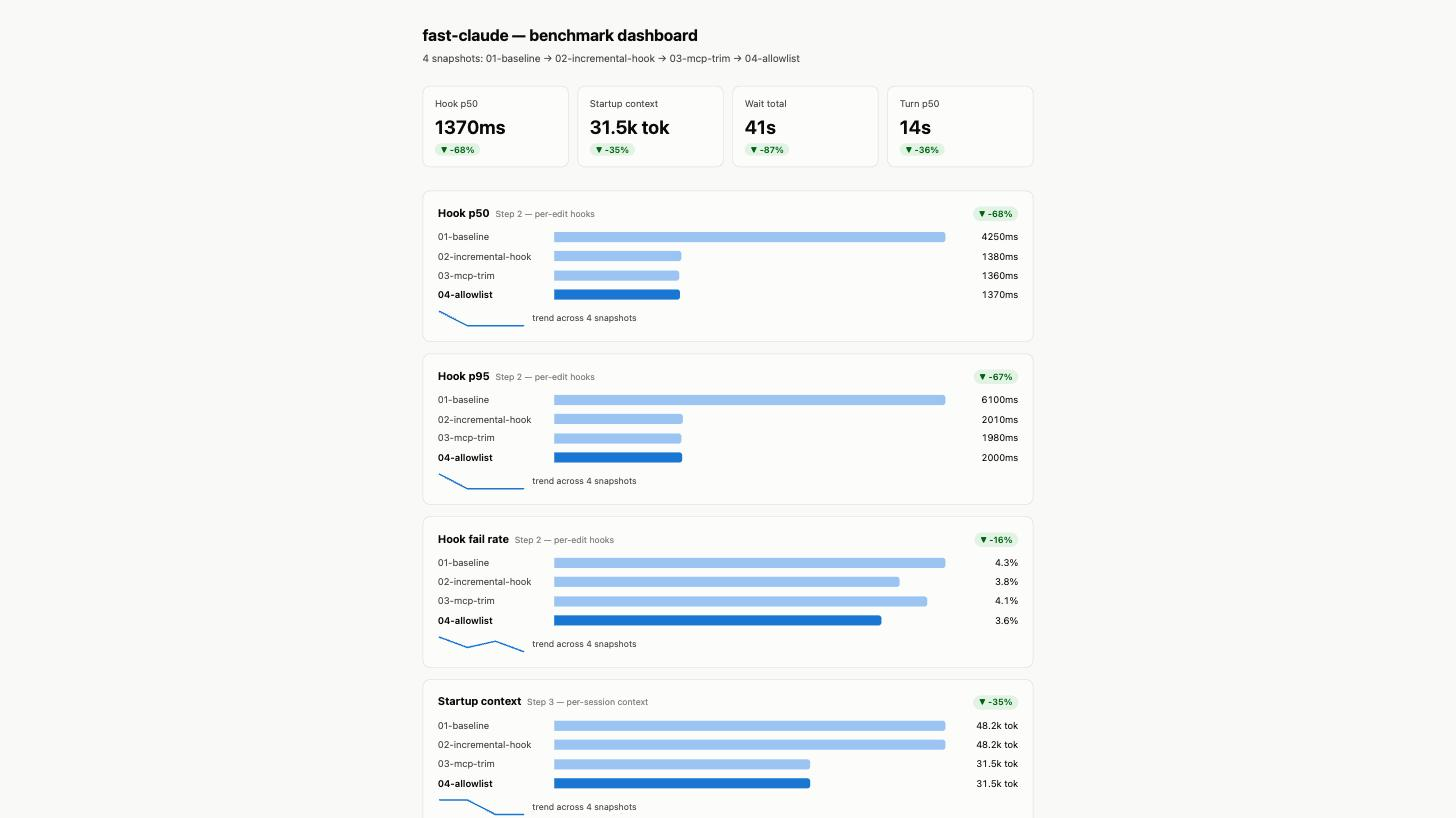
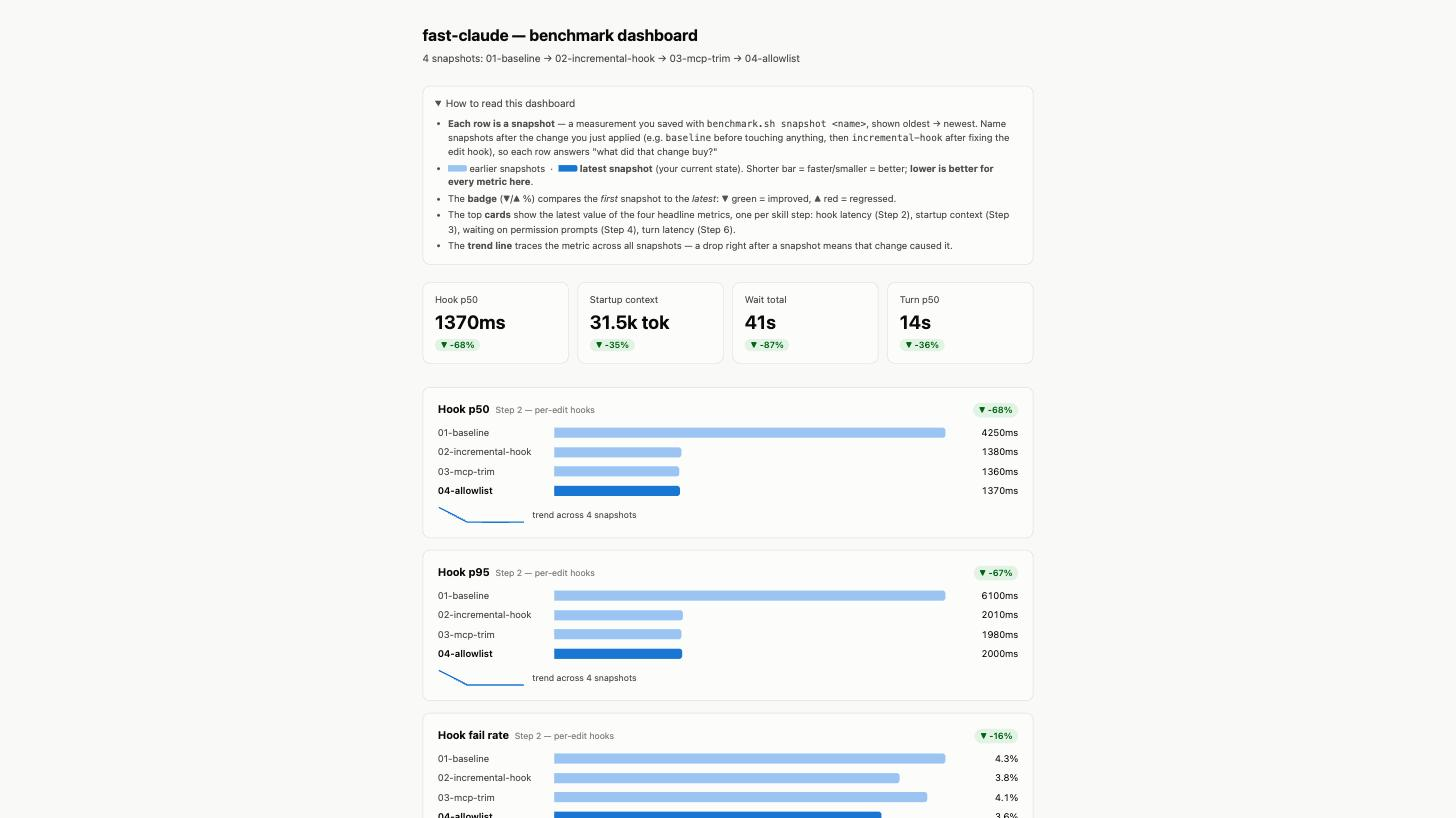
docs: explain snapshot names and how to read the dashboard
- dashboard gets a built-in "How to read this dashboard" section
- README explains the sample's 01-baseline..04-allowlist naming and
  maps each snapshot to the skill step it measures
- screenshot updated with the explainer open

diff --git a/docs/sample-benchmark.html b/docs/sample-benchmark.html
@@ -58,6 +58,11 @@
   .spark polyline { fill: none; stroke: var(--bar-strong); stroke-width: 2; stroke-linejoin: round; stroke-linecap: round; }
   details { margin-top: 28px; }
   summary { cursor: pointer; color: var(--ink-2); font-size: 14px; }
+  .howto { margin: 0 0 24px; background: var(--surface); border: 1px solid var(--border); border-radius: 10px; padding: 12px 16px; }
+  .howto[open] summary { margin-bottom: 8px; }
+  .howto ul { margin: 0; padding-left: 18px; color: var(--ink-2); font-size: 13px; }
+  .howto li { margin: 3px 0; }
+  .howto .chip { display: inline-block; width: 26px; height: 9px; border-radius: 0 3px 3px 0; vertical-align: baseline; }
   table { border-collapse: collapse; margin-top: 12px; width: 100%; font-size: 13px; }
   th, td { text-align: right; padding: 6px 10px; border-bottom: 1px solid var(--grid); font-variant-numeric: tabular-nums; }
   th:first-child, td:first-child { text-align: left; }
@@ -68,6 +73,16 @@
 <body>
 <h1>fast-claude — benchmark dashboard</h1>
 <p class="sub" id="sub"></p>
+<details class="howto">
+  <summary>How to read this dashboard</summary>
+  <ul>
+    <li><strong>Each row is a snapshot</strong> — a measurement you saved with <code>benchmark.sh snapshot &lt;name&gt;</code>, shown oldest → newest. Name snapshots after the change you just applied (e.g. <code>baseline</code> before touching anything, then <code>incremental-hook</code> after fixing the edit hook), so each row answers "what did that change buy?"</li>
+    <li><span class="chip" style="background:var(--bar-muted)"></span> earlier snapshots &nbsp;·&nbsp; <span class="chip" style="background:var(--bar-strong)"></span> <strong>latest snapshot</strong> (your current state). Shorter bar = faster/smaller = better; <strong>lower is better for every metric here</strong>.</li>
+    <li>The <strong>badge</strong> (▼/▲ %) compares the <em>first</em> snapshot to the <em>latest</em>: ▼ green = improved, ▲ red = regressed.</li>
+    <li>The top <strong>cards</strong> show the latest value of the four headline metrics, one per skill step: hook latency (Step 2), startup context (Step 3), waiting on permission prompts (Step 4), turn latency (Step 6).</li>
+    <li>The <strong>trend line</strong> traces the metric across all snapshots — a drop right after a snapshot means that change caused it.</li>
+  </ul>
+</details>
 <div class="cards" id="cards"></div>
 <div id="sections"></div>
 <details><summary>Raw values (table view)</summary><div id="tablewrap"></div></details>

diff --git a/README.md b/README.md
@@ -46,6 +46,17 @@ Human waits:       9            9            0%
 
 ![benchmark dashboard](docs/sample-benchmark.jpg)
 
+**How to read it:** each row is a snapshot you saved, in chronological order — light bars are earlier states, the dark bar is your current state, and the ▼/▲ badge compares first vs latest. Lower is always better. The sample's names show the intended workflow, one snapshot per optimization applied:
+
+| Snapshot | Meaning |
+|---|---|
+| `01-baseline` | before changing anything — your starting point |
+| `02-incremental-hook` | after making the edit hook incremental (SKILL.md Step 2) |
+| `03-mcp-trim` | after disabling unused MCP servers/plugins (Step 3) |
+| `04-allowlist` | after allowlisting read-only commands (Step 4) |
+
+Named this way, the dashboard answers "which change bought what": the hook p50 drop appears at `02`, the startup-context drop at `03`, the human-wait drop at `04`. The dashboard itself also carries a "How to read this dashboard" section at the top.
+
 Metrics come from the hook's debug log and from Claude Code's own session transcripts — no manual timing. Mapping: hook latency → Step 2, startup context → Step 3, human waits → Step 4, turn latency → Step 6.
 
 ## Install